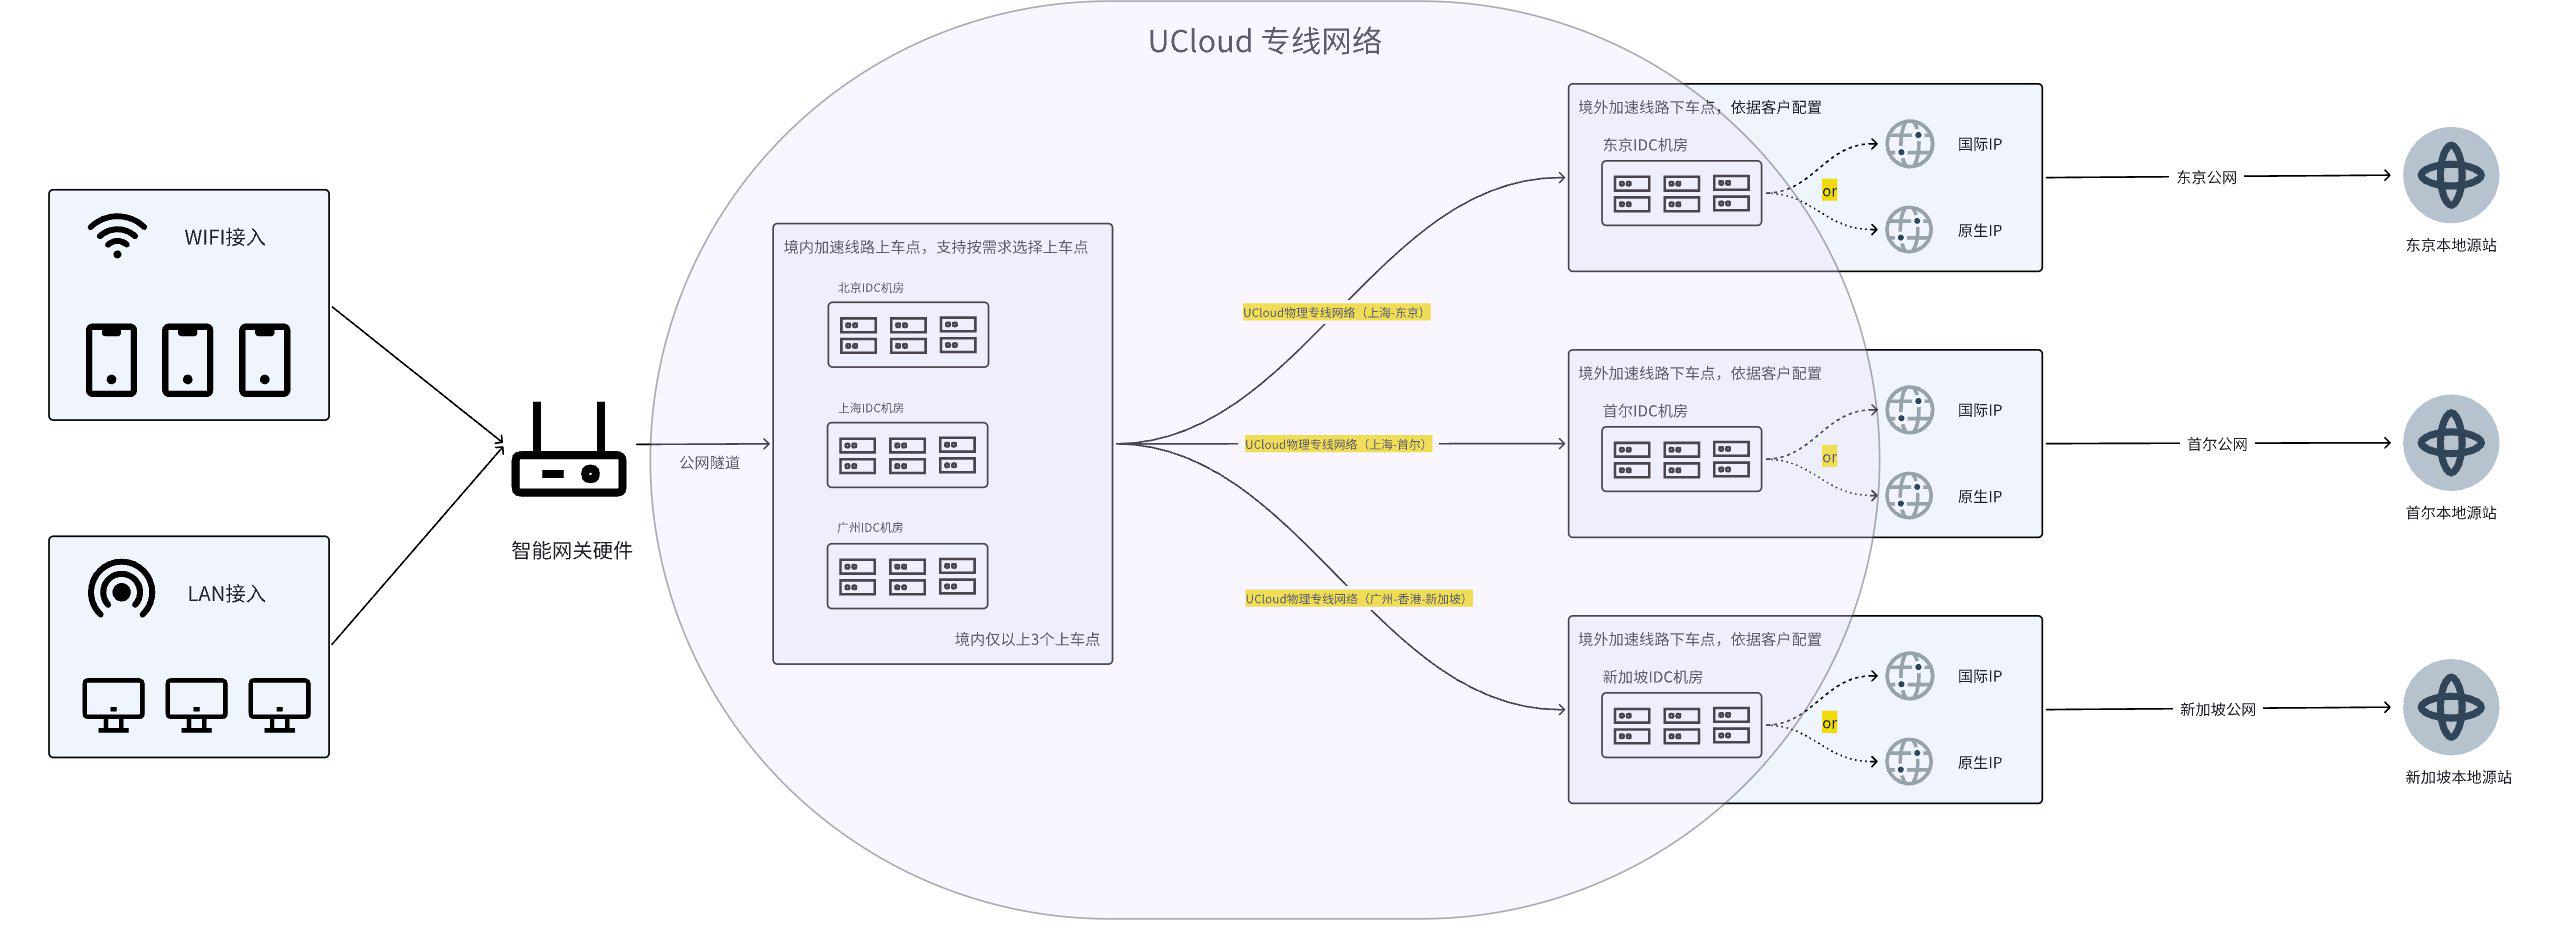
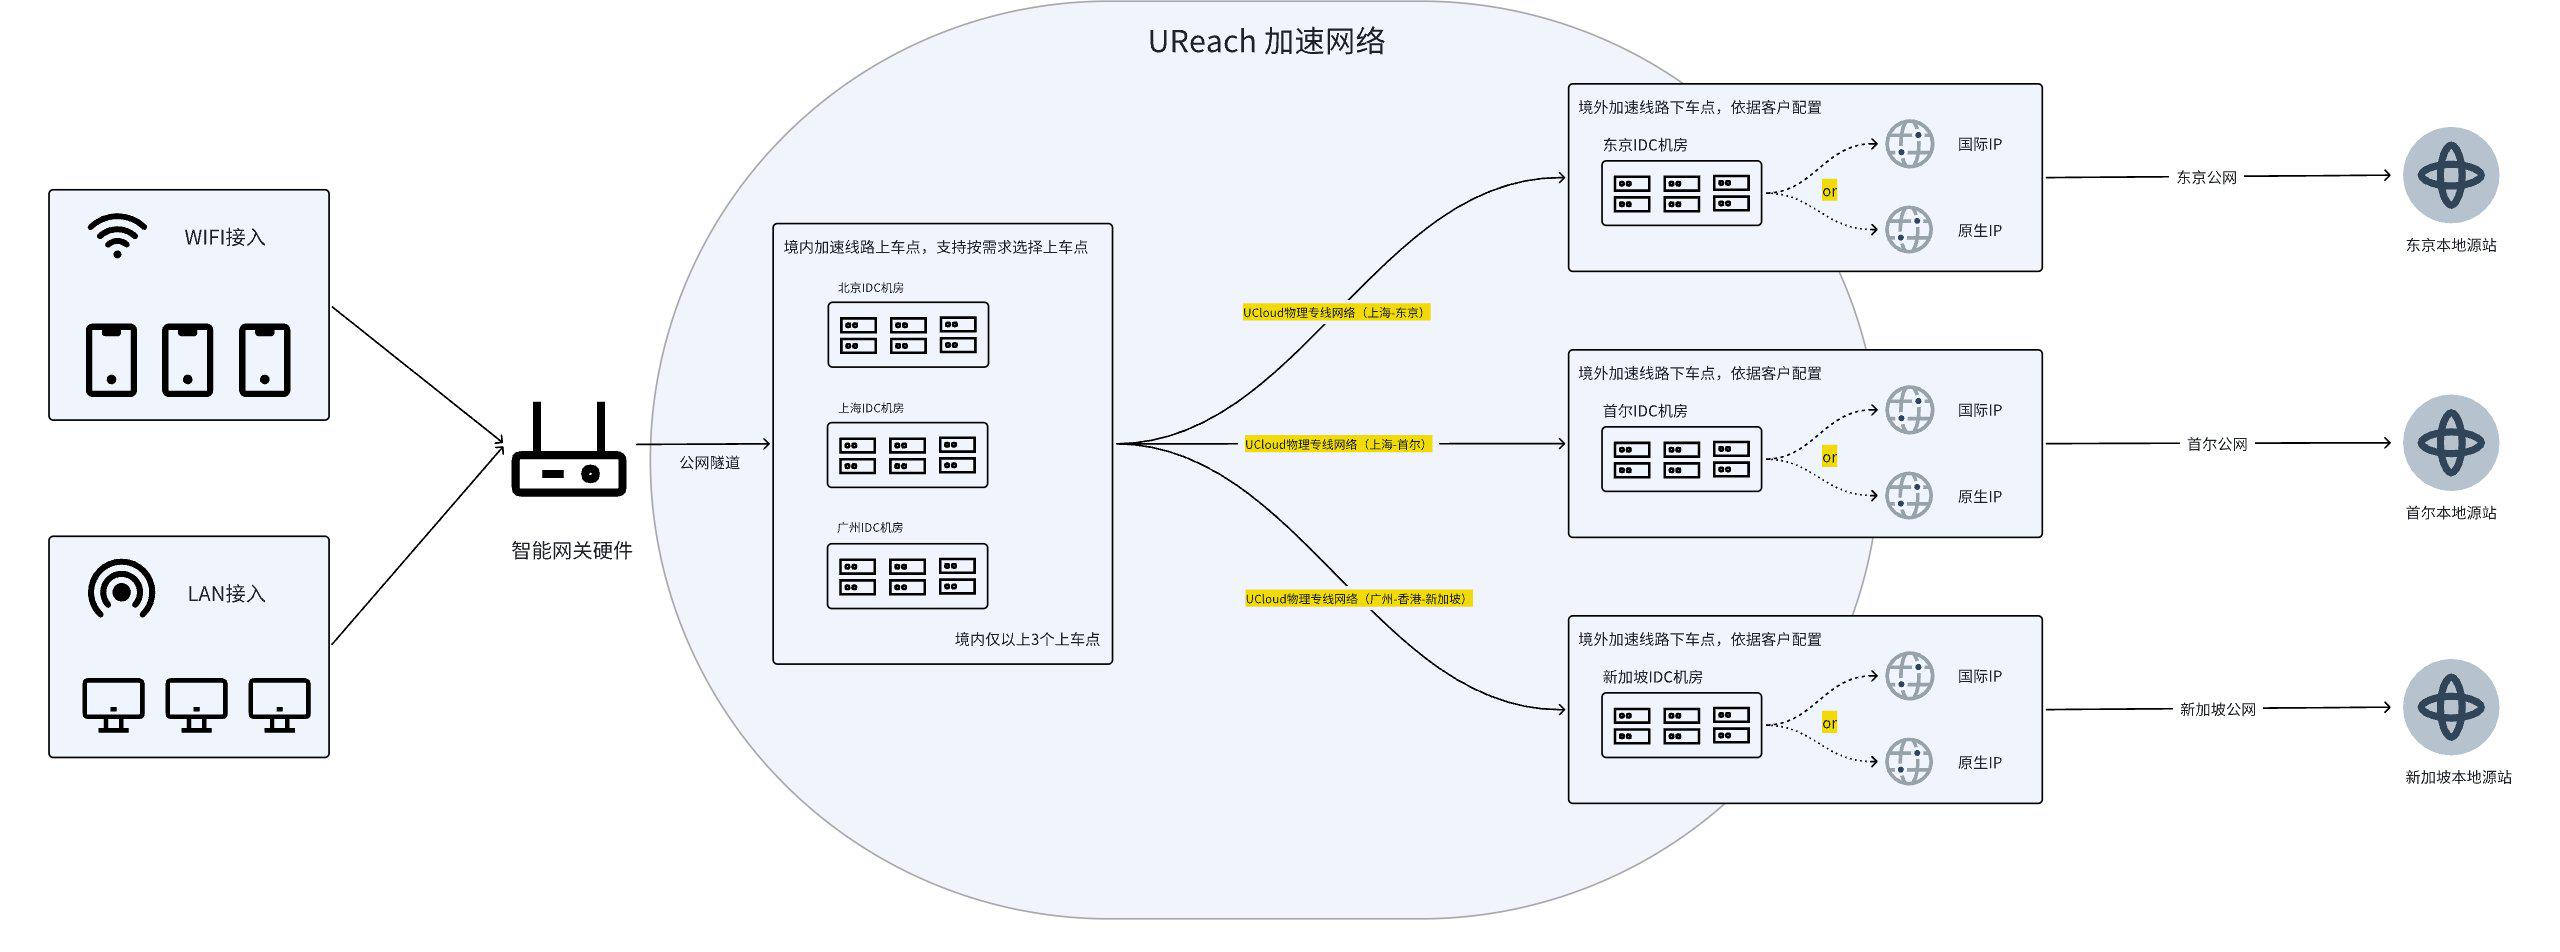
update

diff --git a/intro/description.md b/intro/description.md
@@ -4,14 +4,14 @@
 
 # 产品组件
 
-## **智能网关硬件**
+## **UReach智能网关**
 
-&emsp;&emsp;智能网关硬件是优睿达网络加速产品的核心组件之一。它是一种物理设备，通常由硬件芯片、处理器、内存、存储等部件组成，具有边缘计算和网络连接功能。智能网关硬件的主要作用是在本地网络中充当中转站，负责接收和发送数据流量。它与UCloud控制台进行通信，根据配置的加速线路信息，将本地流量接入UCloud的专线网络，实现网络加速。
+&emsp;&emsp;UReach智能网关是优睿达网络加速产品的核心组件之一。它是一种物理设备，通常由硬件芯片、处理器、内存、存储等部件组成，具有边缘计算和网络连接功能。智能网关硬件的主要作用是在本地网络中充当中转站，负责接收和发送数据流量。它与UCloud控制台进行通信，根据配置的加速线路信息，将本地流量接入UCloud的专线网络，实现网络加速。
 
 &emsp;&emsp;智能网关硬件具备高性能和可靠性，能够处理大量的数据流量并提供稳定的网络连接。它还支持各种安全协议和加密算法，确保数据在传输过程中的安全性和保密性。通过部署优睿达网络加速产品，用户可以享受到UCloud专线网络加速的优势，提高网络访问的速度和稳定性。
 
-## **加速专线**
+## **UReach加速线路**
 
-&emsp;&emsp;加速专线是无界智能网关产品的另一个重要组件。它是一种专用的网络通道，用于连接用户的本地网络和UCloud的网络，实现网络加速。加速专线通常由电信运营商或数据中心提供，具备较低的延迟、较高的带宽和较低的丢包率，适用于处理对网络性能要求较高的业务流量。
+&emsp;&emsp;UReach加速线路是无界智能网关产品的另一个重要组件。它是一种专用的网络通道，用于连接用户的本地网络和UCloud的网络，实现网络加速。加速专线通常由电信运营商或数据中心提供，具备较低的延迟、较高的带宽和较低的丢包率，适用于处理对网络性能要求较高的业务流量。
 
-&emsp;&emsp;用户在使用优睿达加速时，需要在UCloud控制台配置相应的网络加速专线。这些专线可以是跨越国际边界的物理专线或虚拟专线，通过与智能网关硬件连接，将用户的本地流量引导到UCloud的网络中进行加速处理。网络加速专线提供了稳定的网络连接，保证了数据的快速传输和低延迟的访问体验，从而为用户提供高效、合规的互联网网络加速方案。
+&emsp;&emsp;用户在使用优睿达加速时，需要在UCloud控制台配置相应的网络加速线路。这些线路由跨越国际边界的物理专线和虚拟专线组成，通过与智能网关硬件连接，将用户的本地流量引导到UCloud的网络中进行加速处理。UReach加速网络提供了稳定的网络连接，保证了数据的快速传输和低延迟的访问体验，从而为用户提供高效、合规的互联网网络加速方案。

diff --git a/_sidebar.md b/_sidebar.md
@@ -8,6 +8,7 @@
   * [功能特性](/boundless-gateway/intro/function.md)
   * [使用限制](/boundless-gateway/intro/limit.md)
   * [技术架构](/boundless-gateway/intro/architecture.md)
+  * [应用场景](/boundless-gateway/intro/application.md)
 
 * 购买指南
   * [计费规则](/boundless-gateway/buy/charge.md)

diff --git a/README.md b/README.md
@@ -6,6 +6,7 @@
   * [功能特性](/boundless-gateway/intro/function.md)
   * [使用限制](/boundless-gateway/intro/limit.md)
   * [技术架构](/boundless-gateway/intro/architecture.md)
+  * [应用场景](/boundless-gateway/intro/application.md)
 
 
 * 购买指南
